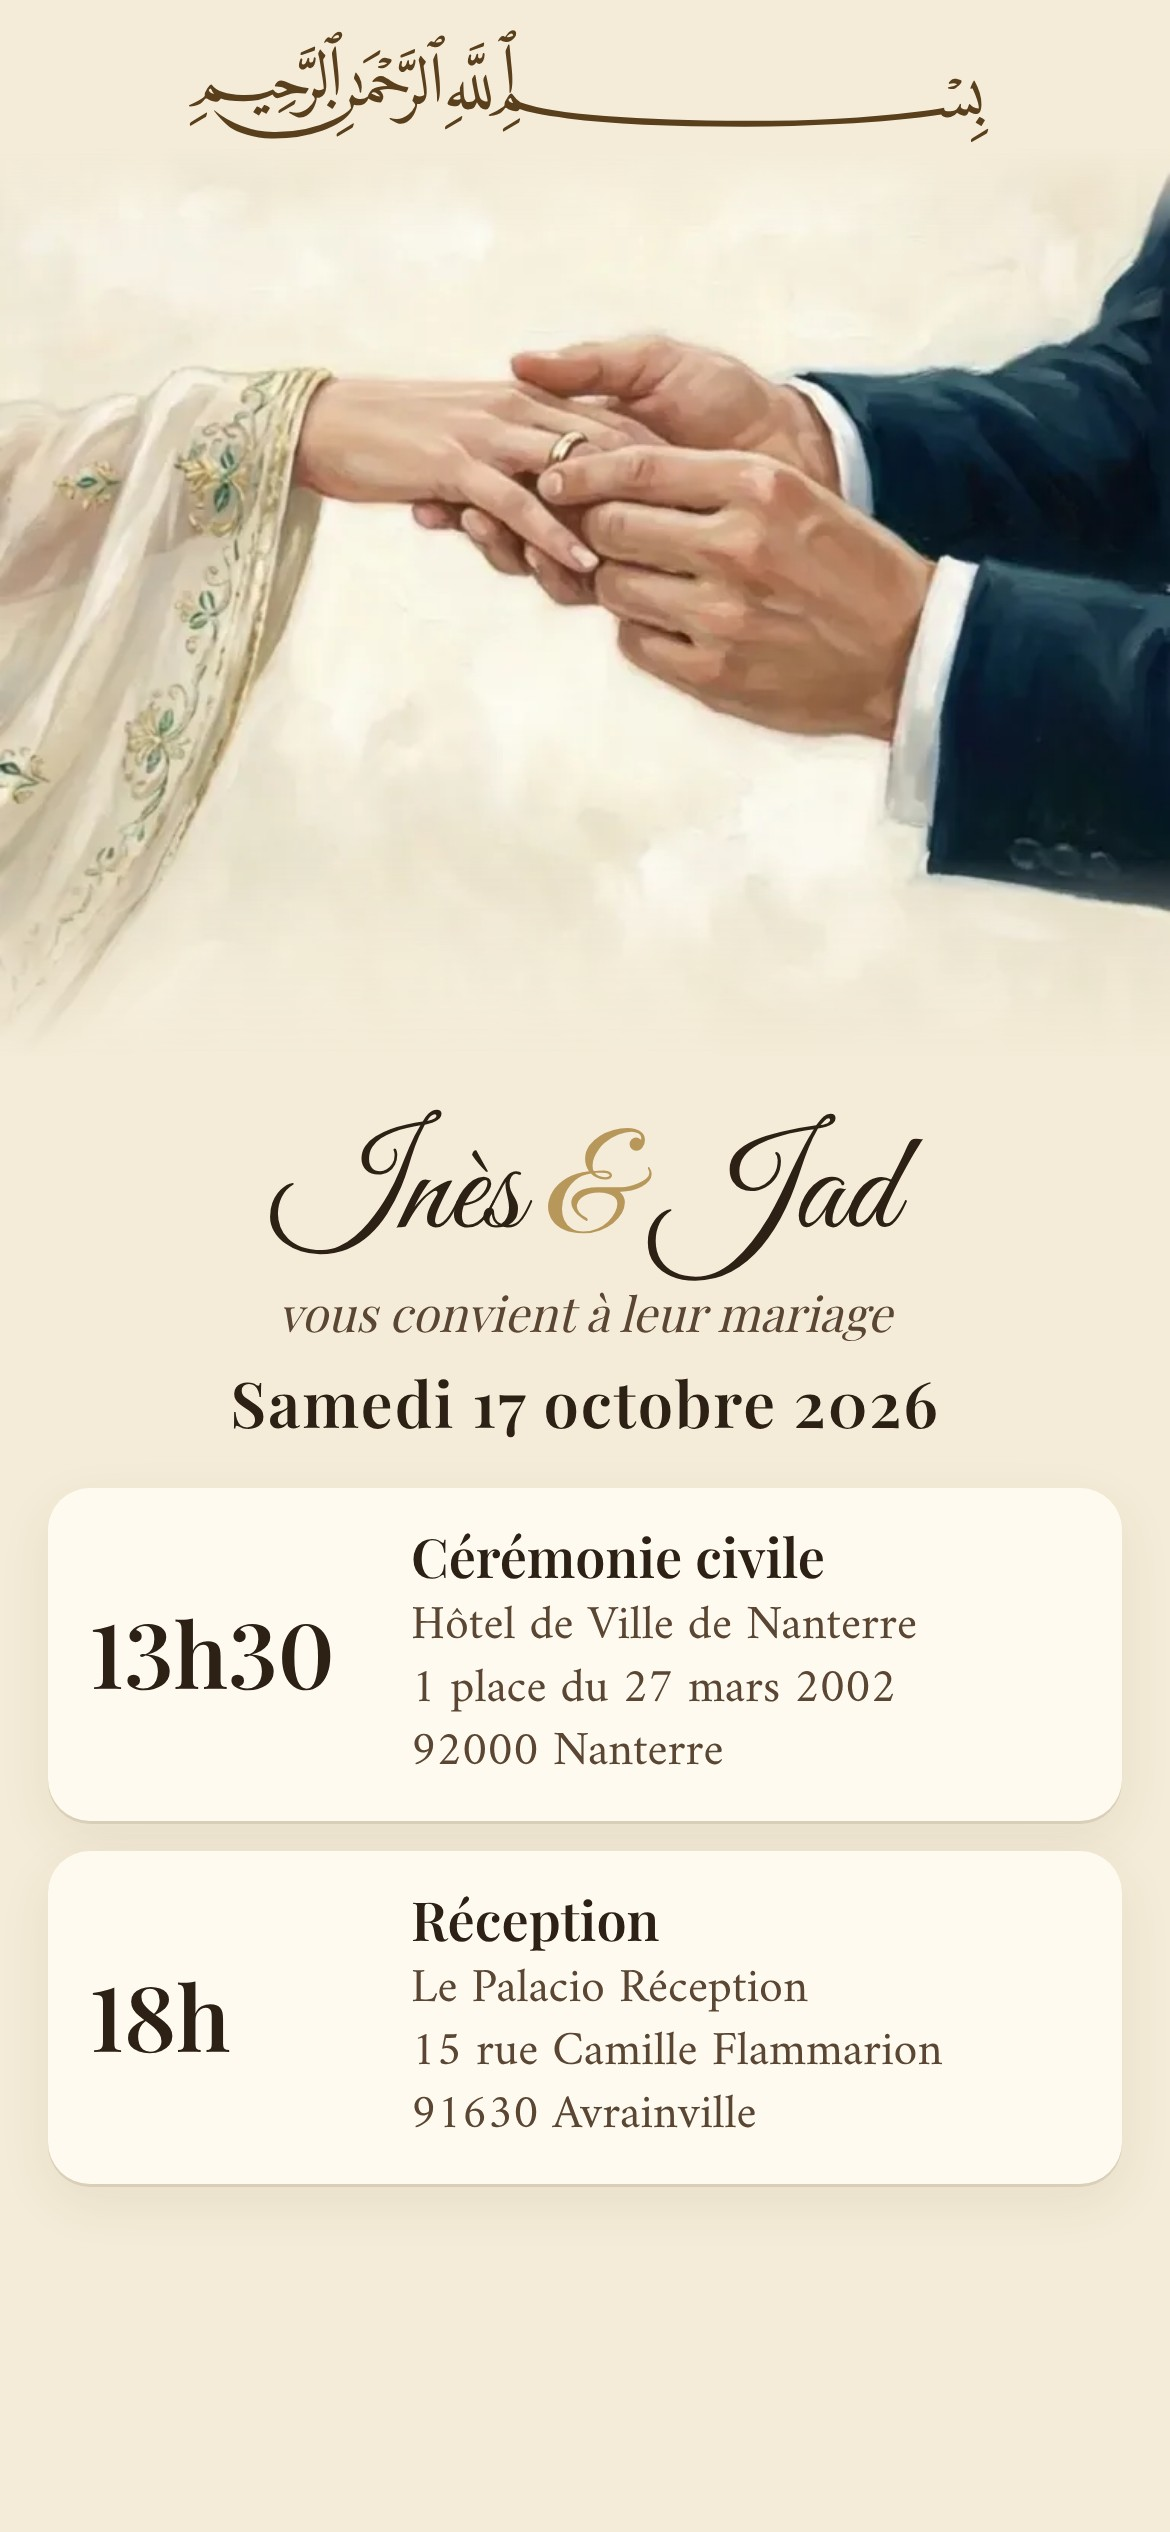
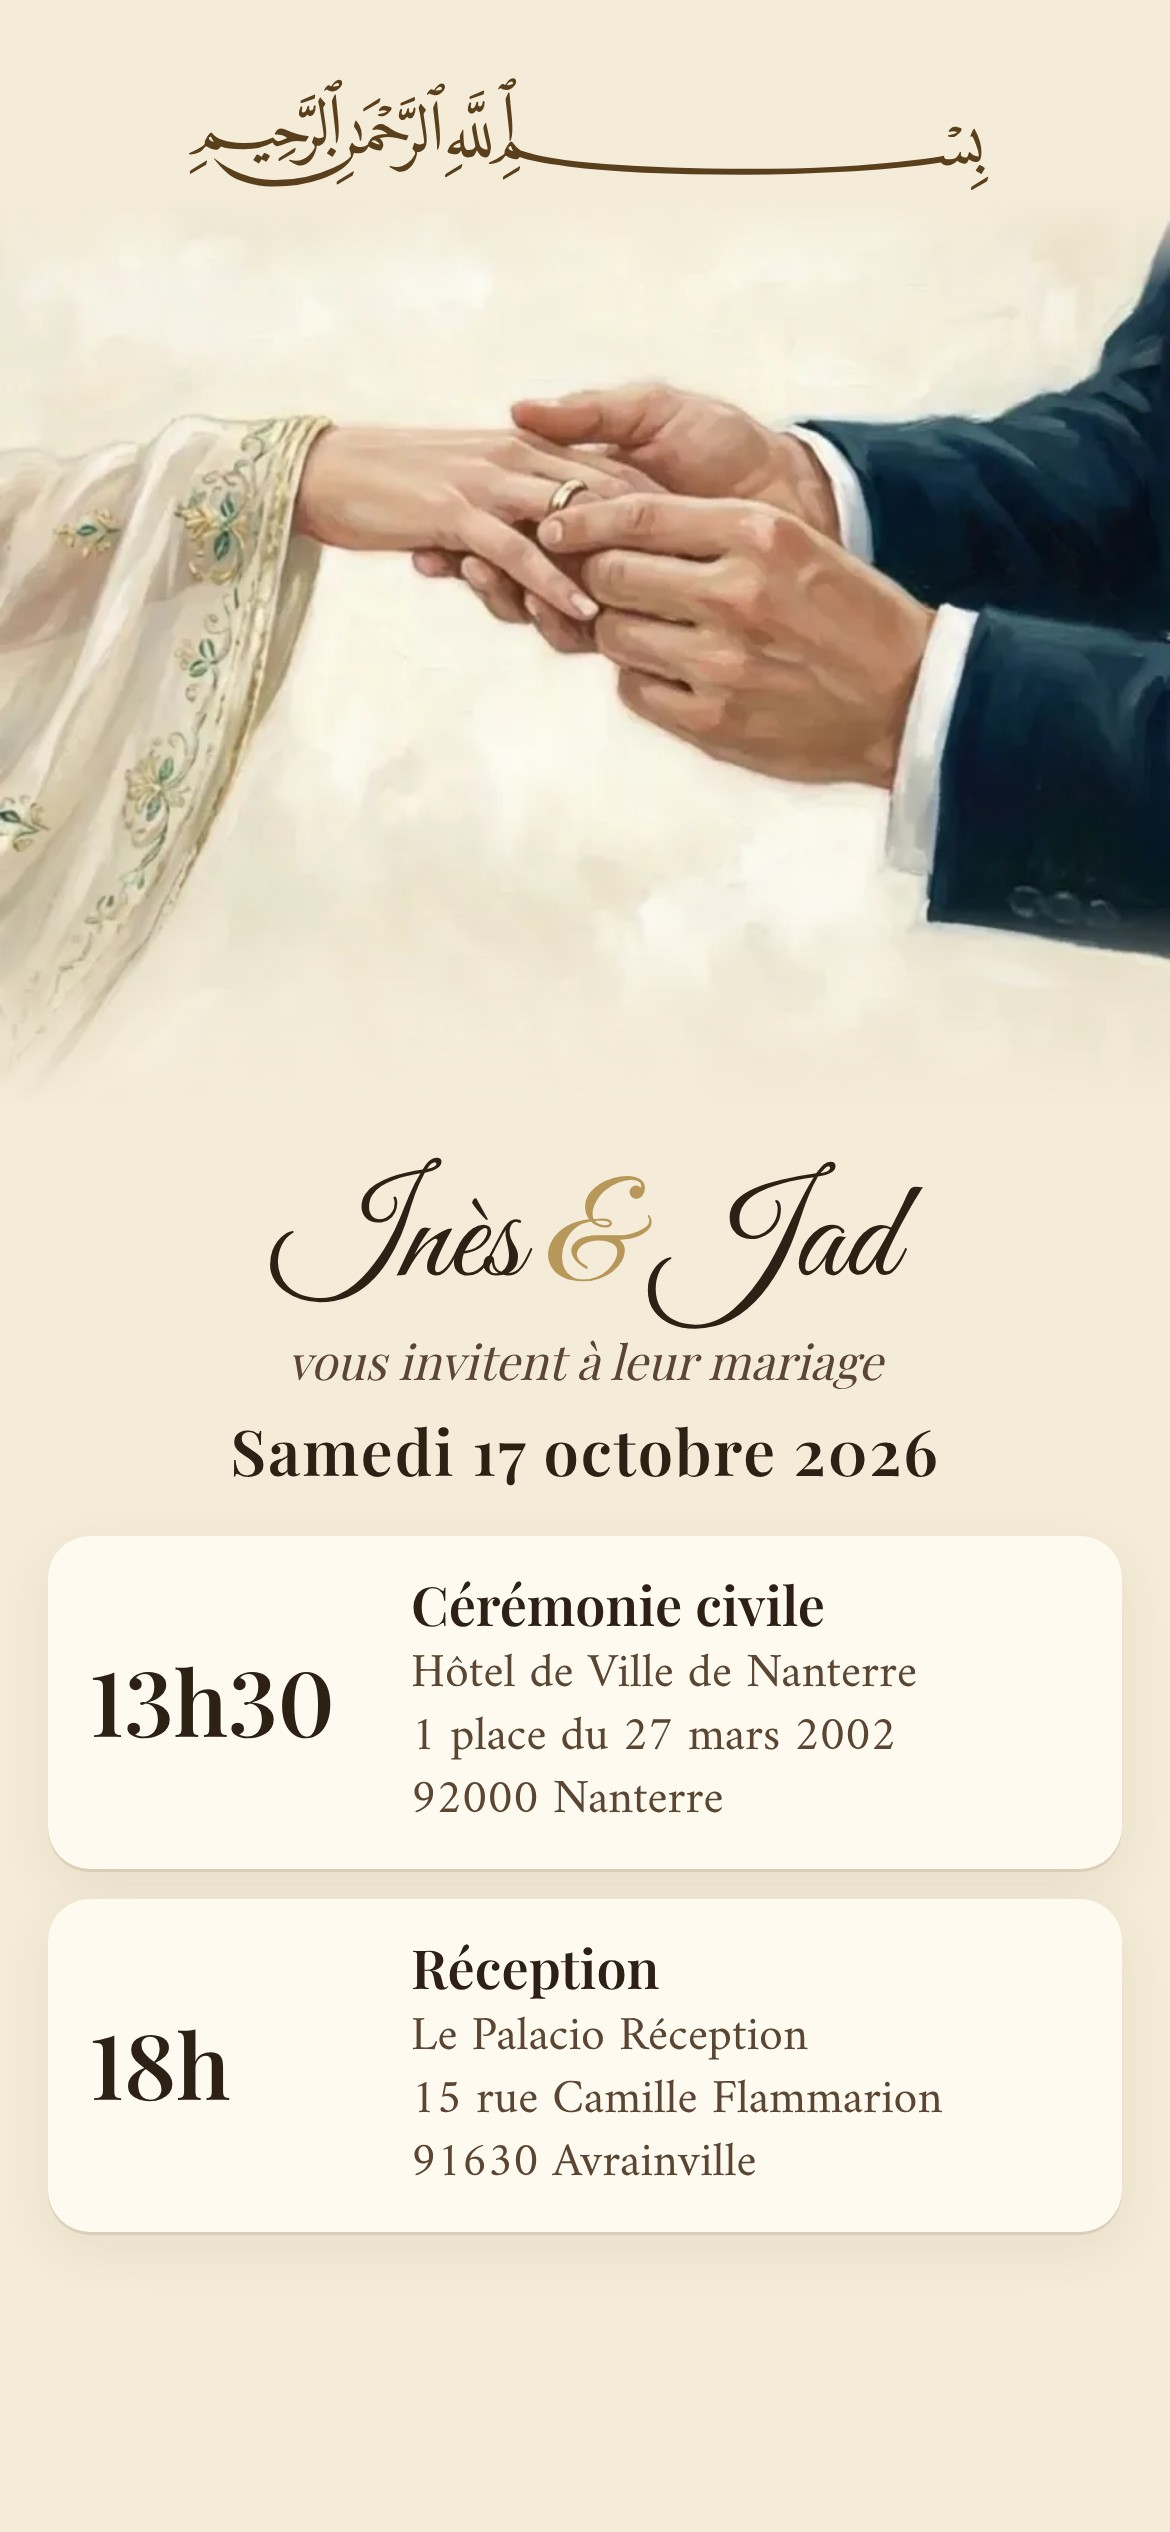
Version simple : basmala plus bas, « vous invitent à leur mariage »
Claude-Session: https://claude.ai/code/session_018Y6tPAp6NWZo26QH5z6AFJ

diff --git a/simple.html b/simple.html
@@ -32,7 +32,7 @@
     .pic{flex:0 1 36svh;min-height:90px;background:url("hero_frames_mir/frame_001.webp") center 45%/cover no-repeat;
       -webkit-mask-image:linear-gradient(to bottom,transparent,#000 10%,#000 78%,transparent);mask-image:linear-gradient(to bottom,transparent,#000 10%,#000 78%,transparent)}
     /* la basmala sur le papier, au-dessus de l'image : jamais sur les mains */
-    .basmala{flex:0 0 auto;margin:0;padding:max(10px,env(safe-area-inset-top)) 0 4px;text-align:center;
+    .basmala{flex:0 0 auto;margin:0;padding:max(26px,calc(env(safe-area-inset-top) + 12px)) 0 4px;text-align:center;
       font-size:clamp(20px,6vw,26px);line-height:1.5;color:var(--brown)}
 
     /* le texte remonte sous l'image ; la place en trop va en bas */
@@ -70,7 +70,7 @@
     <div class="pic" aria-hidden="true"></div>
     <div class="txt">
       <h1>Inès <span class="amp">&amp;</span> Jad</h1>
-      <p class="inv">vous convient à leur mariage</p>
+      <p class="inv">vous invitent à leur mariage</p>
       <p class="date">Samedi 17 octobre 2026</p>
 
       <div class="evs">
